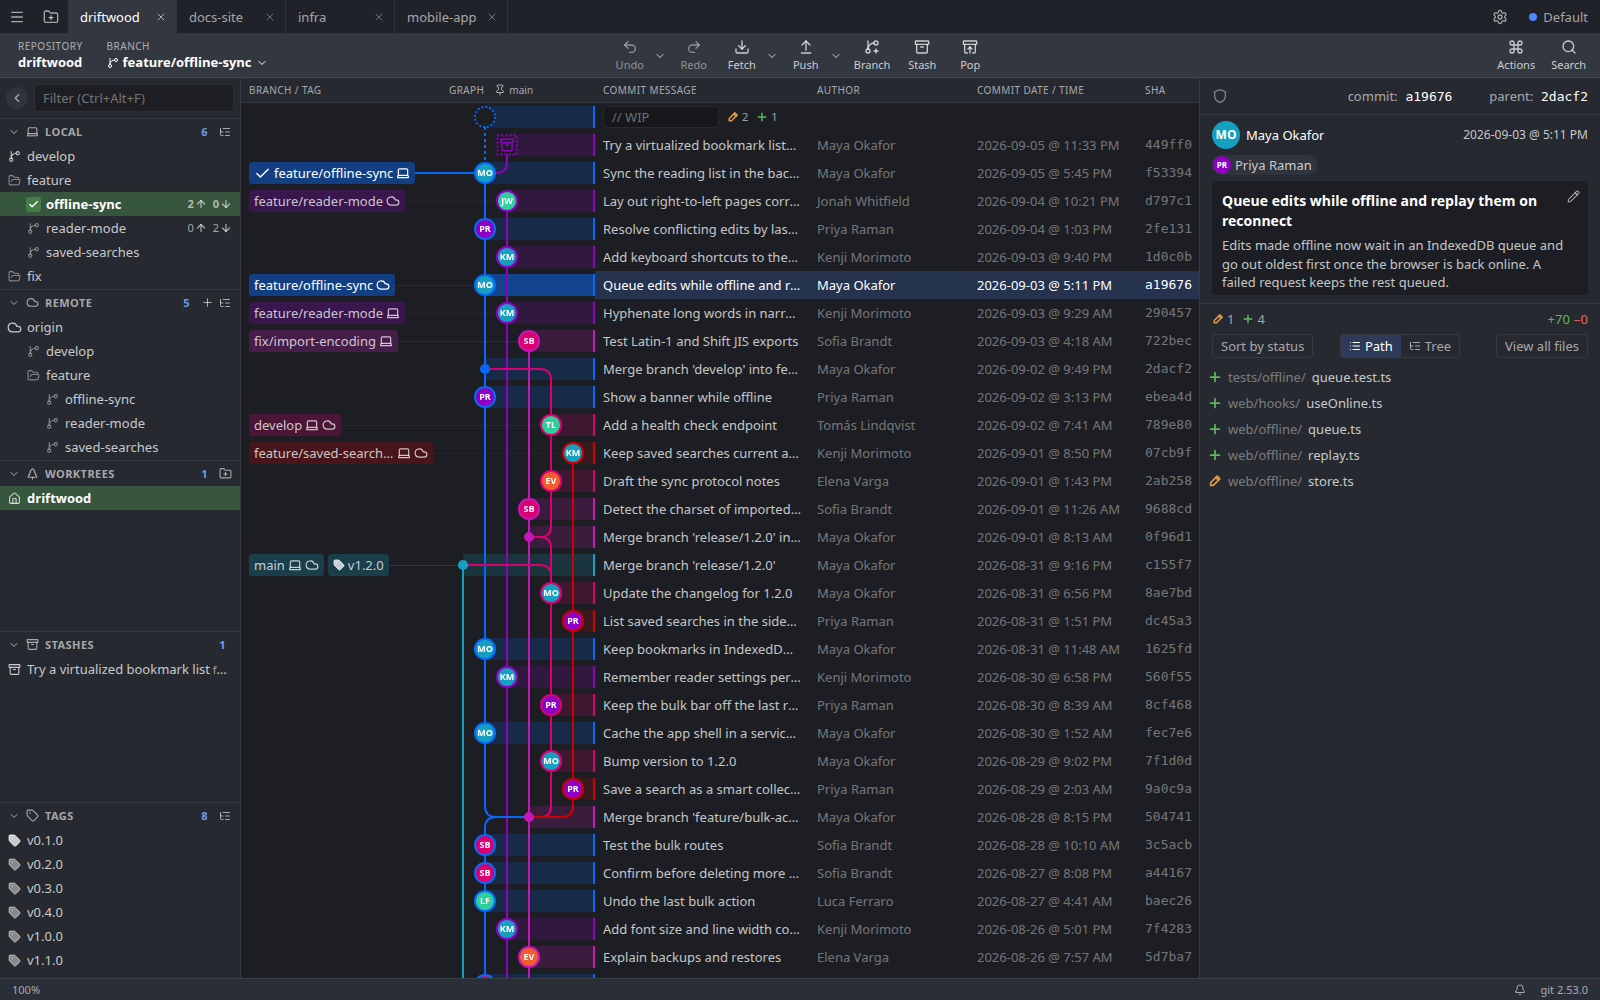
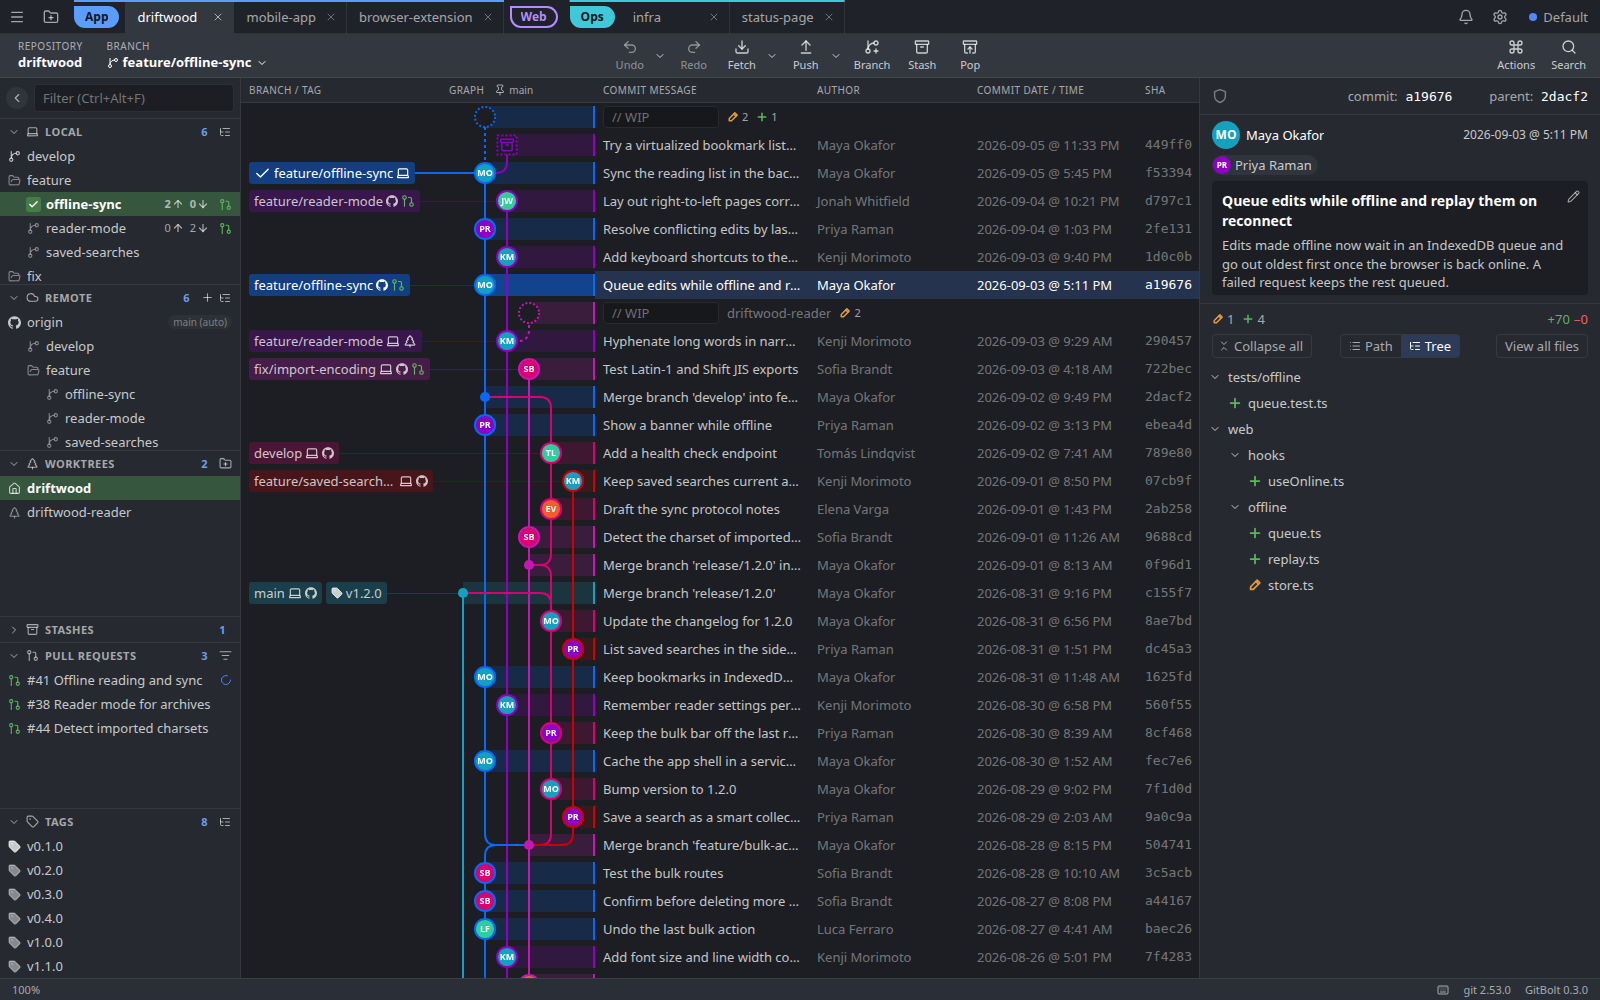
README screenshot: tab groups, GitHub PRs, a worktree, the files as a tree
The showcase adds three made-up repos and a linked worktree; the spec groups
the seven tabs (App, Web collapsed, Ops), points driftwood at the harness's
fake GitHub with three open PRs on visible branches, collapses Stashes and
shows the commit's files as a tree.

Claude-Session: https://claude.ai/code/session_01Gd8cWxFv1V5tj9RPxWsZNr

diff --git a/ui/e2e/readme-screenshot.spec.ts b/ui/e2e/readme-screenshot.spec.ts
@@ -1,8 +1,9 @@
 import { execFileSync } from 'node:child_process';
 import { mkdtempSync } from 'node:fs';
 import { join } from 'node:path';
-import { fixtures } from './fixtures';
-import { expect, test } from './test';
+import type { APIRequestContext } from '@playwright/test';
+import { addForgeAccount, E2E_GITHUB_TOKEN, fixtures, forgeSeed, git, setForgeSeed } from './fixtures';
+import { expect, test, type Page } from './test';
 
 // The README's screenshot (docs/images/screenshot.webp): opt-in, not part of the suite. Run it with
 // `just readme-screenshot`, which sets GITBOLT_README_SHOT to the PNG to write and optimises it.
@@ -12,23 +13,95 @@ test.skip(!out, 'the README screenshot runs with GITBOLT_README_SHOT=<png> (just
 test.skip(({ browserName }) => browserName !== 'chromium', 'Chromium only');
 test.use({ viewport: { width: 1600, height: 1000 }, deviceScaleFactor: 1, timezoneId: 'UTC', locale: 'en-US' });
 
-test('README screenshot', async ({ page }) => {
+test('README screenshot', async ({ page, request }) => {
   test.setTimeout(120_000);
   const root = mkdtempSync(join(fixtures.notRepo, 'showcase-'));
   execFileSync('bash', [join(import.meta.dirname, '..', '..', 'scripts', 'showcase-repo.sh'), root], { stdio: 'ignore' });
-  const repos = ['driftwood', 'docs-site', 'infra', 'mobile-app'].map((r) => join(root, r));
+  await connectGitHub(request, join(root, 'driftwood'));
+  // In the strip's order, then grouped: App (driftwood, shown), Web (collapsed), Ops.
+  const repos = ['driftwood', 'mobile-app', 'browser-extension', 'docs-site', 'design-system', 'infra', 'status-page'].map((r) => join(root, r));
   await page.goto(`/?${repos.map((r) => `repo=${encodeURIComponent(r)}`).join('&')}`);
   await expect(page.getByRole('tab')).toHaveCount(repos.length);
+  await group(page, 'App', ['driftwood', 'mobile-app', 'browser-extension']);
+  await group(page, 'Web', ['docs-site', 'design-system']);
+  await group(page, 'Ops', ['infra', 'status-page']);
   await page.getByRole('tab', { name: /driftwood/ }).click();
-  const grid = page.getByRole('grid', { name: 'Commit graph' });
+  // Web collapsed to its chip (none of its tabs is active).
+  await page.getByRole('button', { name: 'Tab group: Web' }).click();
+  await expect(page.getByRole('tab', { name: /docs-site/ })).toBeHidden();
+  const grid = page.getByRole('grid', { name: 'Commit graph' }).filter({ visible: true });
   await expect(grid).toBeVisible();
+  const sidebar = page.getByRole('complementary', { name: 'Sidebar', exact: true }).filter({ visible: true });
+  // The PRs are polled in: each one's badge on its branch's chips, and the sidebar's section.
+  for (const n of [38, 41, 44]) await expect(grid.getByRole('button', { name: `Pull request #${n}: open` }).first()).toBeVisible();
+  await expect(sidebar.getByRole('region', { name: 'Pull requests', exact: true }).getByRole('treeitem')).toHaveCount(3);
+  await expect(sidebar.getByRole('tree', { name: 'Worktrees items' }).getByRole('treeitem')).toHaveCount(2);
+  // Stashes collapsed, as a user would: a click on its header.
+  await sidebar.getByRole('region', { name: 'Stashes', exact: true }).getByRole('button', { name: 'Stashes', exact: true }).click();
   await grid.getByRole('row').filter({ hasText: 'Queue edits while offline' }).click();
   const panel = page.getByRole('complementary', { name: 'Commit details' });
   await expect(panel.getByTestId('details-summary')).toHaveText('Queue edits while offline and replay them on reconnect');
-  await expect(panel.getByRole('option')).toHaveCount(5);
+  // The file list as a tree: tests/offline, web/hooks and web/offline.
+  await panel.getByRole('button', { name: 'Tree', exact: true }).click();
+  await expect(panel.getByRole('treeitem').filter({ hasText: 'queue.ts' }).first()).toBeVisible();
   // Nothing hovered or focused that a user wouldn't see at rest.
   await page.mouse.move(1, 999);
   await page.evaluate(() => (document.activeElement as HTMLElement | null)?.blur());
   await page.waitForTimeout(500);
   await page.screenshot({ path: out!, animations: 'disabled', caret: 'hide' });
 });
+
+/** Points driftwood's origin at a made-up project on the harness's fake GitHub (nothing fetches
+ * it: the harness turns background fetch off), connects an account for that host, and seeds open
+ * pull requests from three of the graph's branches, by the showcase's people. */
+async function connectGitHub(request: APIRequestContext, repo: string): Promise<void> {
+  const project = 'driftwood-app/driftwood';
+  git(repo, 'remote', 'set-url', 'origin', `https://github.com/${project}.git`);
+  const people = [['maya', 'Maya Okafor'], ['tomas', 'Tomás Lindqvist'], ['priya', 'Priya Raman'], ['jonah', 'Jonah Whitfield'], ['kenji', 'Kenji Morimoto'], ['sofia', 'Sofia Brandt'], ['luca', 'Luca Ferraro']];
+  const users = people.map(([username, name], i) => ({ id: 9100 + i, username, name, email: null, avatarUrl: null }));
+  const seed = await forgeSeed(request);
+  const gh = seed.github as { tokens: Array<{ token: string; user: unknown }>; repos: unknown[]; users: unknown[]; assignees: unknown[]; pulls: unknown[] };
+  // The fake's e2e token, signed in as Maya.
+  gh.tokens.find((t) => t.token === E2E_GITHUB_TOKEN)!.user = users[0];
+  gh.repos.push({ id: 9001, path: project, defaultBranch: 'develop', updatedAt: '2026-09-05T18:00:00Z' });
+  gh.users.push(...users);
+  gh.assignees = users;
+  const tip = (branch: string) => git(repo, 'rev-parse', `origin/${branch}`).trim();
+  const checks = (status: string, conclusion: string | null) => [{ name: 'build', status: 'completed', conclusion: 'success' }, { name: 'test', status, conclusion }];
+  const review = (id: number, user: string, state: string, submittedAt: string) => ({ id, user, state, body: '', submittedAt });
+  const pull = (number: number, headRef: string, title: string, author: string, updatedAt: string, more: Record<string, unknown>) => ({
+    number, repo: project, headRef, baseRef: 'develop', title, state: 'open', author, headSha: tip(headRef), baseSha: tip('develop'),
+    mergeable: true, mergeableState: 'clean', updatedAt, ...more,
+  });
+  gh.pulls = [
+    pull(38, 'feature/reader-mode', 'Reader mode for archives', 'kenji', '2026-09-04T22:10:00Z', {
+      labels: ['enhancement'], checks: checks('completed', 'success'), reviews: [review(381, 'jonah', 'APPROVED', '2026-09-04T21:30:00Z')],
+    }),
+    pull(41, 'feature/offline-sync', 'Offline reading and sync', 'maya', '2026-09-05T18:00:00Z', {
+      labels: ['enhancement'], checks: checks('in_progress', null), requestedReviewers: ['tomas', 'priya'], mergeableState: 'unstable',
+    }),
+    pull(44, 'fix/import-encoding', 'Detect imported charsets', 'sofia', '2026-09-03T04:30:00Z', {
+      labels: ['bug'], checks: checks('completed', 'success'), reviews: [review(441, 'luca', 'CHANGES_REQUESTED', '2026-09-03T09:00:00Z')],
+    }),
+  ];
+  await setForgeSeed(request, seed);
+  await addForgeAccount(request, 'github.com', 'github', E2E_GITHUB_TOKEN);
+}
+
+/** Groups `tabs` (repo names, already side by side) as `name`: the first tab's Add to new group,
+ * the name from the chip's menu, then each other tab's Add to group. */
+async function group(page: Page, name: string, tabs: string[]): Promise<void> {
+  await page.getByRole('tab', { name: new RegExp(tabs[0]) }).click({ button: 'right' });
+  await page.getByRole('menuitem', { name: 'Add to new group' }).click();
+  await page.locator('.tab-group-chip').last().click({ button: 'right' });
+  const menu = page.getByRole('dialog', { name: 'Tab group' });
+  await menu.getByLabel('Group name').fill(name);
+  await page.keyboard.press('Escape');
+  await expect(menu).toBeHidden();
+  for (const t of tabs.slice(1)) {
+    await page.getByRole('tab', { name: new RegExp(t) }).click({ button: 'right' });
+    await page.getByRole('menuitem', { name: 'Add to group' }).hover();
+    await page.getByRole('menuitem', { name }).click();
+  }
+  await expect(page.getByRole('button', { name: `Tab group: ${name}` })).toBeVisible();
+}

diff --git a/README.md b/README.md
@@ -18,7 +18,7 @@ It's built with a Rust core (using [gitoxide](https://github.com/GitoxideLabs/gi
 and the `git` CLI for writes, so your hooks, config and credentials behave exactly as they do in a
 terminal), a React UI, and [Tauri](https://tauri.app/) with the Chromium (CEF) runtime.
 
-![GitBolt: the commit graph with four repository tabs and a selected commit's details](docs/images/screenshot.webp)
+![GitBolt: the commit graph with repository tabs in three tab groups, branches with their GitHub pull requests, a second worktree, and a selected commit's files as a tree](docs/images/screenshot.webp)
 
 > **Status:** early (0.x). Usable day to day on Linux and Windows, and new on macOS; expect rough edges.
 
